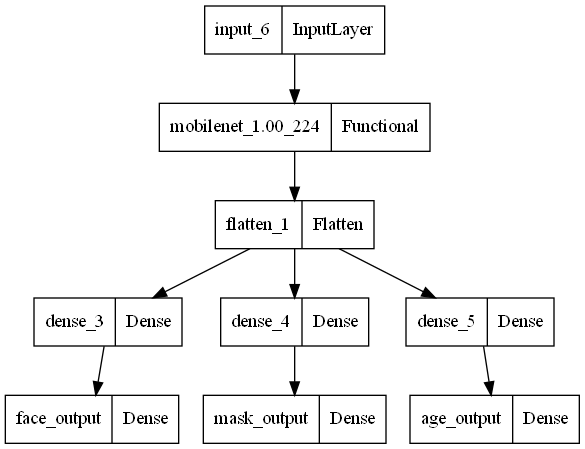
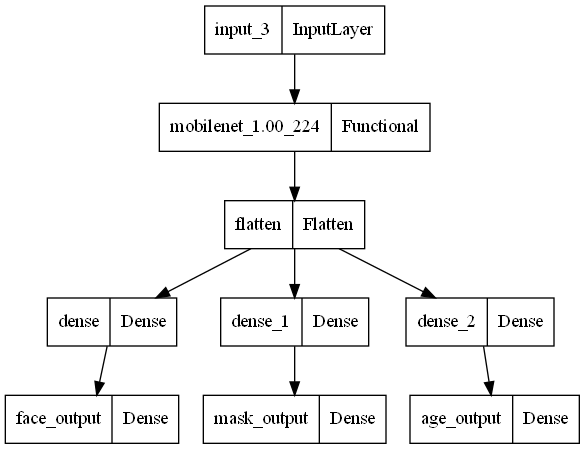
Using SparseCategoricalCrossentropy Loss and Ignoring invalid age data (-1)

diff --git a/src/m3/loadData_alt.py b/src/m3/loadData_alt.py
@@ -22,10 +22,8 @@ def get_label(file_path):
     face = int(filename_split[0])
     mask = int(filename_split[1])
     age = int(filename_split[2])
-    age = age if age >= 0 else 0
-    age = tf.one_hot(age, 120)
 
-    return face if face >= 0 else 0, mask if mask >= 0 else 0, age
+    return face, mask, age
 
 def load_img(img_path, img_size):
     img = tf.io.read_file(img_path)
